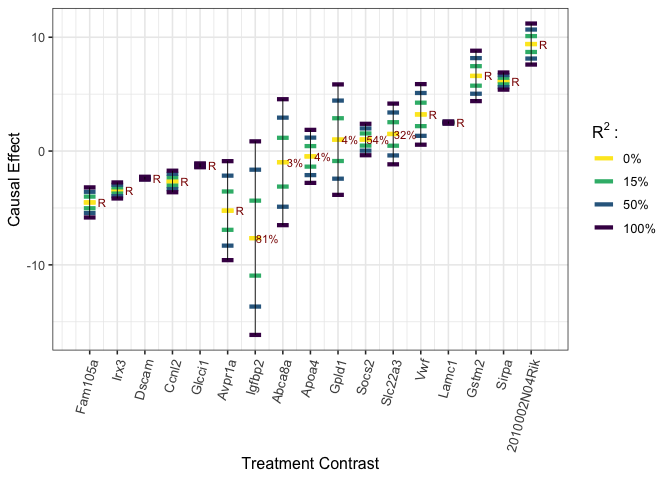
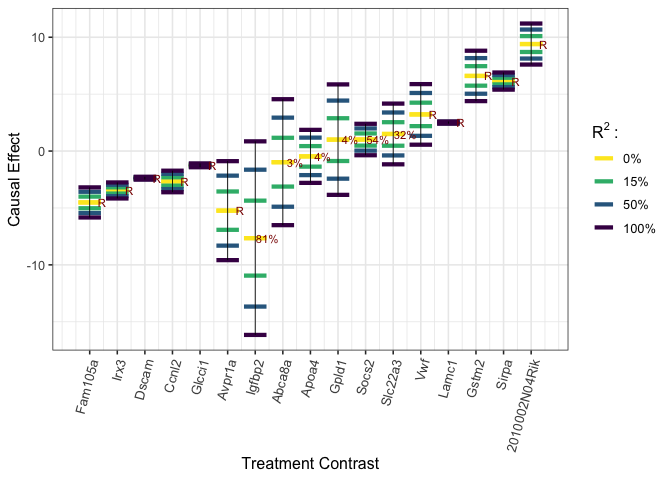
modify for CRAN submission

diff --git a/README.md b/README.md
@@ -8,7 +8,7 @@
 
 `CopSens` implements the copula-based sensitivity analysis method, as
 discussed in [Copula-based Sensitivity Analysis for Multi-Treatment
-CausalInference with Unobserved
+Causal Inference with Unobserved
 Confounding](https://arxiv.org/abs/2102.09412), with Gaussian copula
 adopted in particular.
 
@@ -118,18 +118,19 @@ t1 <- tr[1:5,]
 t2 <- rep(0, times = ncol(tr))
 
 # calibrate #
-est_df <- bcalibrate(y = y, tr = tr, t = rbind(t1, t2),
-                     gamma = c(1.27, -0.28, 0),
-                     R2 = c(0.2, 0.7))$est_df
+est_b <- bcalibrate(y = y, tr = tr, t = rbind(t1, t2),
+                    gamma = c(1.27, -0.28, 0),
+                    R2 = c(0.2, 0.7))
 #> Fitting the latent confounder model by PPCA with default.
 #> 1:2:3:4:5:6:7:8:9:10:1:2:3:4:5:6:7:8:9:10:1:2:3:4:5:6:7:8:9:10:1:2:3:4:5:6:7:8:9:10:1:2:3:4:5:6:7:8:9:10:
 #> Observed outcome model fitted by simple probit model with default.
 #> R2 =  0.2 , calibrating observation 1  2  3  4  5  6  
 #> R2 =  0.7 , calibrating observation 1  2  3  4  5  6
 # calculate risk ratio estimator #
-rr_df <- est_df[1:5,] / as.numeric(est_df[6,])
+est_b_rr <- list(est_df = est_b$est_df[1:5,] / as.numeric(est_b$est_df[6,]),
+                 R2 = c(0.2, 0.7))
 # visualize #
-plot_estimates(rr_df)
+plot_estimates(est_b_rr)
 ```
 
 <img src="man/figures/README-binary-outcome-example-1.png" width="85%" style="display: block; margin: auto;" />

diff --git a/cran-comments.md b/cran-comments.md
@@ -1,0 +1,13 @@
+## Test environments
+* local R installation, R 4.0.3
+* ubuntu 16.04 (on travis-ci), R 4.0.3
+* win-builder (devel)
+
+## R CMD check results
+
+0 errors | 0 warnings | 1 note
+
+* This is a new release.
+
+## Downstream dependencies
+There are currently no downstream dependencies for this package.
